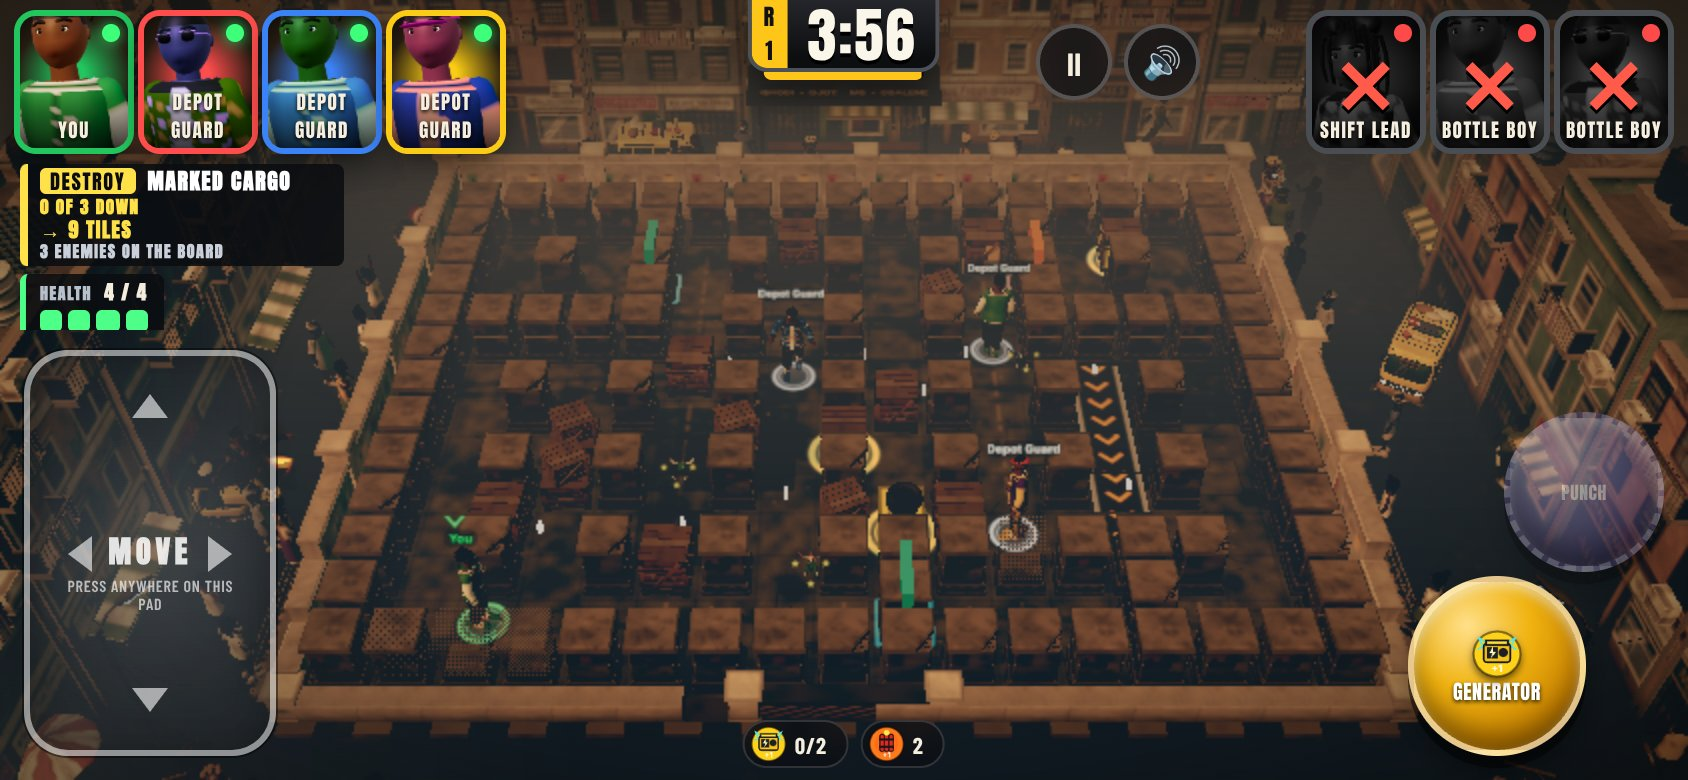
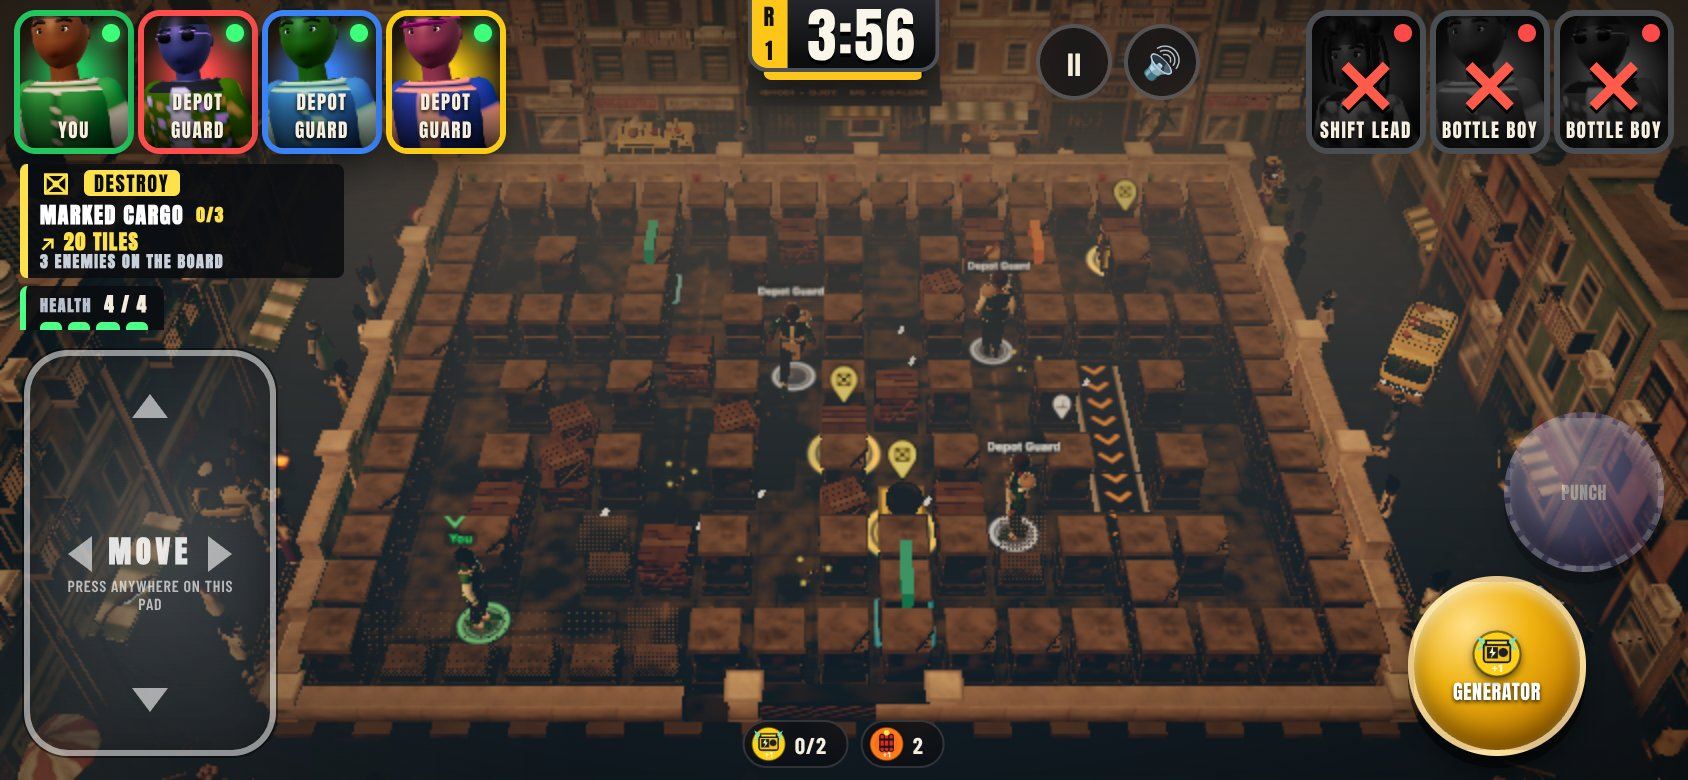
Guidance screenshots (740x360, 844x390 at 2x, desktop, Low preset) and their review in MISSION_GUIDANCE.md
The e2e spec writes its own pictures to e2e-shots/; the reviewed set comes from
scripts/guidance-shots.mjs.

Claude-Session: https://claude.ai/code/session_01QeTP4yfJfvzQ1TfQbTJU26

diff --git a/e2e/mission-guidance.spec.ts b/e2e/mission-guidance.spec.ts
@@ -11,7 +11,7 @@
  *      bottom row or the fighter.
  *
  * Every coordinate is read from the running state (the checkpoints, the door, the cargo): nothing here depends on where
- * a district's sector places them. Screenshots: docs/screenshots/campaign-guidance-expansion/guidance/.
+ * a district's sector places them. Screenshots go to e2e-shots/ (the reviewed set is made by scripts/guidance-shots.mjs).
  */
 import { mkdirSync } from 'node:fs';
 import { join } from 'node:path';
@@ -20,7 +20,7 @@ import type { Page, TestInfo } from '@playwright/test';
 import { inMatch, open } from './helpers';
 
 /* eslint-disable @typescript-eslint/no-explicit-any */
-const OUT = join(process.cwd(), 'docs', 'screenshots', 'campaign-guidance-expansion', 'guidance');
+const OUT = join(process.cwd(), 'e2e-shots');
 
 async function shot(page: Page, info: TestInfo, name: string): Promise<void> {
   mkdirSync(OUT, { recursive: true });

diff --git a/docs/MISSION_GUIDANCE.md b/docs/MISSION_GUIDANCE.md
@@ -55,7 +55,7 @@ Pin colour repeats the meaning (gold = destroy / hold, cyan = door, green = exit
 
 ## Screenshots
 
-`docs/screenshots/campaign-guidance-expansion/guidance/`, from `e2e/mission-guidance.spec.ts` (desktop 1280 x 720, phone landscape 844 x 390) and `scripts/guidance-shots.mjs` (740 x 360 and 844 x 390 at scale 2, 1280 x 720, the Low preset).
+`docs/screenshots/campaign-guidance-expansion/guidance/`, made with `scripts/guidance-shots.mjs` on the Low preset (`?q=low`): phone landscape 740 x 360 and 844 x 390 at device scale 2 (`-phone740`, `-phone844`) and desktop 1280 x 720 (`-desktop`). Scenarios: `brief` (the first field mission's briefing), `boss` (the Oshodi boss briefing with the card), `railedge` (Rail Edge on its relay-box leg: equipment pins, "DESTROY RELAY BOX 0/3", "← 2 TILES"), `raidbrief` (the depot raid's instructions over the held raid), `raid` (cargo pins, 0/3, the route cue), `raidexit` (after the last cargo: the exit pin, "EXIT REACH THE EXIT"), `pause` (the compact card in the pause menu). Reviewed: the cards fit both phone sizes without a page scroll; the raid briefing fills a 740 x 360 screen with START RAID on it; the rail's objective block stays left of the board and above its bottom row; the pins read at phone size (small: about half a tile). `e2e/mission-guidance.spec.ts` also writes its own pictures to `e2e-shots/` (not committed).
 
 ## Tests
 
